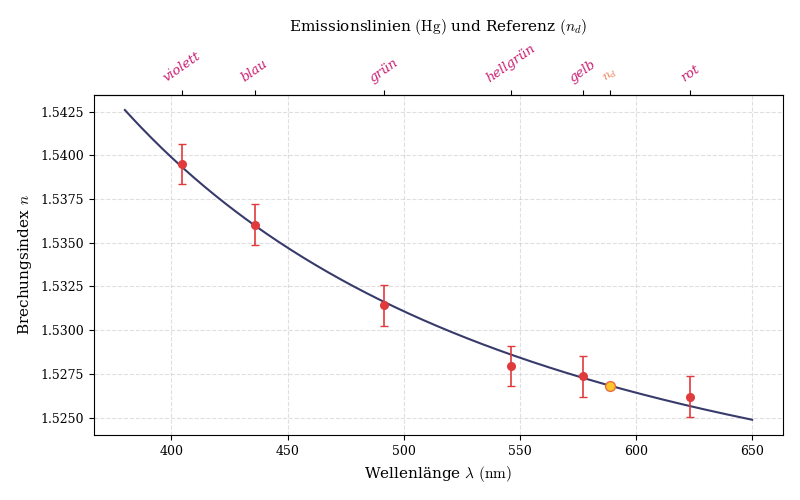
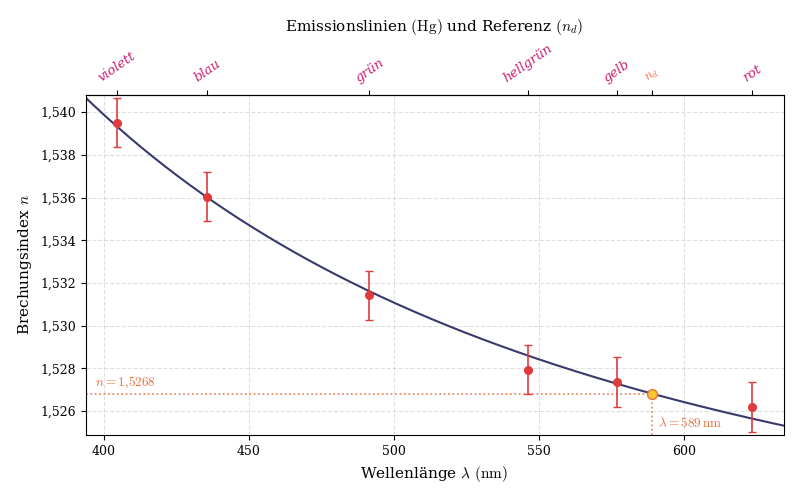
support for multiple datasets

diff --git a/O20/ablenkung_analyse.py b/O20/ablenkung_analyse.py
@@ -2,6 +2,9 @@ import pandas as pd
 import matplotlib.pyplot as plt
 import numpy as np
 from scipy.optimize import curve_fit
+from matplotlib.ticker import FuncFormatter
+import os
+
 
 # spezi palette
 YELLOW = "#fcc72d"
@@ -11,6 +14,21 @@ MAGENTA = "#cb1f73"
 BLUE = "#383a6b"
 
 DELTA_ANGLE = 0.1 # deg
+
+lookup_table = {
+    "ablenkung_prisma_1": {
+        "phi_deg": 59.15, # (260.2 - 141.9)/2
+        "lambdas_nm": np.array([404.7, 435.8, 491.6, 546.1, 577.0, 623.4]),
+        "top_ticks": [404.7, 435.8, 491.6, 546.1, 577.0, 589.0, 623.4],
+        "top_labels": ["violett", "blau", "grün", "hellgrün", "gelb", r"$n_d$", "rot"],
+    },
+    "ablenkung_prisma_2": {
+        "phi_deg": 60.55, # (261.7 - 140.6)/2
+        "lambdas_nm": None,
+        "top_ticks": [404.75, 435.8, 493.8, 546.1, 578.05, 589.0, 612.0, 671.0],
+        "top_labels": ["violett", "blau", "grün", "hellgrün", "gelb", r"$n_d$", "rot", "rot"],
+    },
+}
 
 # LaTeX config for matplotlib
 plt.rcParams.update(
@@ -30,112 +48,177 @@ def sellmeier(lambda_um, B, C):
     # lambda is expected to be in micrometers to prevent overflow
     return np.sqrt(1.0 + (B * lambda_um**2) / (lambda_um**2 - C))
 
-df = pd.read_csv("data/ablenkung_prisma_1.csv",sep=";",decimal=",")
+for filename, config in lookup_table.items():
+    file_path = f"data/{filename}.csv"
 
-df = df[["Farbe", "GelbL", "GelbR", "Rot", "Violett"]]
+    if not os.path.exists(file_path):
+        print(f"Überspringe {filename} - Datei nicht gefunden!")
+        continue
 
-lambdas_nm = np.array([404.7, 435.8, 491.6, 546.1, 577.0, 623.4])
-lambdas_um = lambdas_nm / 1000.0 # convert to micrometer
+    df = pd.read_csv(file_path, sep=";", decimal=",")  # read german csv notation
+    df = df[["Farbe", "GelbL", "GelbR", "Rot", "Violett"]]
 
-PHI_DEG = 59.15 # (260.2 - 141.9)/2
-phi_rad = np.radians(PHI_DEG)
-
-delta_deg = np.abs(df["GelbR"] - df["GelbL"]) / 2.0 # minimum deflection
-delta_rad = np.radians(delta_deg)
-
-# refractive index using snell's law
-n_measured = np.sin((delta_rad + phi_rad) / 2.0) / np.sin(phi_rad / 2.0)
-
-delta_delta_rad = np.radians(DELTA_ANGLE)
-
-dn_ddelta = np.cos((delta_rad + phi_rad) / 2.0) / (2.0 * np.sin(phi_rad / 2.0))
-n_err = np.abs(dn_ddelta) * delta_delta_rad
-
-popt, pcov = curve_fit(sellmeier, lambdas_um, n_measured, p0=[1.1, 0.01])
-B_fit, C_fit = popt
-
-n_NaD = sellmeier(0.589, B_fit, C_fit)
-
-fig, ax = plt.subplots(figsize=(8, 5))
-
-x_line_um = np.linspace(0.38, 0.65, 300)
-x_line_nm = x_line_um * 1000.0
-y_line_fit = sellmeier(x_line_um, B_fit, C_fit)
-
-ax.plot(
-    x_line_nm,
-    y_line_fit,
-    color=BLUE,
-    linestyle="-",
-    linewidth=1.5,
-    label=f"Sellmeier-Fit ($B={B_fit:.4f}, C={C_fit:.5f}\\,\\mu\\mathrm{{m}}^2$)",
-    zorder=2,
-)
-
-ax.errorbar(
-    lambdas_nm,
-    n_measured,
-    yerr=n_err,
-    fmt="o",
-    color=RED,
-    ecolor=RED,
-    elinewidth=1.2,
-    capsize=3,
-    markersize=5.5,
-    label="Messdaten Prisma 1 mit $\\Delta n$",
-    zorder=3,
-)
-
-ax.scatter(
-    [589],
-    [n_NaD],
-    color=YELLOW,
-    edgecolors=ORANGE,
-    s=50,
-    zorder=4,
-)
-
-top_ticks = [404.7, 435.8, 491.6, 546.1, 577.0, 589.0, 623.4]
-top_labels = [
-    "violett",
-    "blau",
-    "grün",
-    "hellgrün",
-    "gelb",
-    r"$n_d$",
-    "rot",
-]
-
-ax_top = ax.secondary_xaxis("top")
-ax_top.set_xticks(top_ticks)
-
-ax_top.set_xticklabels(top_labels, fontsize=9.5, rotation=35)
-ax_top.set_xlabel(
-    r"Emissionslinien $(\mathrm{Hg})$ und Referenz $(n_d)$", labelpad=8
-)
-
-for i, tick_label in enumerate(ax_top.get_xticklabels()):
-    if i == 5:
-        tick_label.set_color(ORANGE)
-        tick_label.set_fontweight("bold")
+    if config["lambdas_nm"] is not None:
+        lambdas_nm = config["lambdas_nm"]
     else:
-        tick_label.set_color(MAGENTA)
-        tick_label.set_fontstyle("italic")
+        lambdas_nm = df["Farbe"].astype(float).values
 
-ax.set_xlabel(r"Wellenlänge $\lambda$ $(\mathrm{nm})$")
-ax.set_ylabel(r"Brechungsindex $n$")
+    lambdas_um = lambdas_nm / 1000.0 # convert to micrometer
 
-ax.grid(True, which="both", linestyle="--", alpha=0.4)
+    PHI_DEG = config["phi_deg"]
+    phi_rad = np.radians(PHI_DEG)
 
-plt.tight_layout()
-plt.savefig("data/out/ablenkung_prisma_1.pdf")
-plt.savefig("data/out/ablenkung_prisma_1.png")
-plt.show()
+    delta_deg = np.abs(df["GelbR"] - df["GelbL"]) / 2.0 # minimum deflection
+    delta_rad = np.radians(delta_deg)
 
-print("WERTE PRISMA 1")
-print(f"fit_B = {B_fit:.5f}")
-print(f"fit_C = {C_fit:.7f} um^2")
-print(f"589 nm: n = {n_NaD:.4f}\n")
-print("Wertetabelle:")
-for f, l, n, dn in zip(df["Farbe"], lambdas_nm, n_measured, n_err):
-    print(f"  {f:10s} ({l:.1f} nm): n = {n:.4f} +- {dn:.4f}")
+    # refractive index using snell's law
+    n_measured = np.sin((delta_rad + phi_rad) / 2.0) / np.sin(phi_rad / 2.0)
+
+    delta_delta_rad = np.radians(DELTA_ANGLE)
+
+    dn_ddelta = np.cos((delta_rad + phi_rad) / 2.0) / (2.0 * np.sin(phi_rad / 2.0))
+    n_err = np.abs(dn_ddelta) * delta_delta_rad
+
+    popt, pcov = curve_fit(sellmeier, lambdas_um, n_measured, p0=[1.1, 0.01])
+    B_fit, C_fit = popt
+
+    n_NaD = sellmeier(0.589, B_fit, C_fit)
+
+    fig, ax = plt.subplots(figsize=(8, 5))
+
+    x_min_um = (lambdas_nm.min() - 15) / 1000.0
+    x_max_um = (lambdas_nm.max() + 15) / 1000.0
+    x_line_um = np.linspace(x_min_um, x_max_um, 300)
+    x_line_nm = x_line_um * 1000.0
+    y_line_fit = sellmeier(x_line_um, B_fit, C_fit)
+
+    ax.plot(
+        x_line_nm,
+        y_line_fit,
+        color=BLUE,
+        linestyle="-",
+        linewidth=1.5,
+        label=f"Sellmeier-Fit ($B={B_fit:.4f}, C={C_fit:.5f}\\,\\mu\\mathrm{{m}}^2$)",
+        zorder=2,
+    )
+
+    ax.errorbar(
+        lambdas_nm,
+        n_measured,
+        yerr=n_err,
+        fmt="o",
+        color=RED,
+        ecolor=RED,
+        elinewidth=1.2,
+        capsize=3,
+        markersize=5.5,
+        label="Messdaten Prisma 1 mit $\\Delta n$",
+        zorder=3,
+    )
+
+    x_pad = (lambdas_nm.max() - lambdas_nm.min()) * 0.05
+    y_pad = (n_measured.max() - n_measured.min()) * 0.10
+
+    ax.set_xlim(lambdas_nm.min() - x_pad, lambdas_nm.max() + x_pad)
+    ax.set_ylim(n_measured.min() - y_pad, n_measured.max() + y_pad)
+
+    left_limit, _ = ax.get_xlim()
+    lower_limit, _ = ax.get_ylim()
+
+    ax.vlines(
+        589,
+        ymin=lower_limit,
+        ymax=n_NaD,
+        color=ORANGE,
+        linestyle=":",
+        linewidth=1.2,
+        alpha=0.9,
+    )
+
+    ax.hlines(
+        n_NaD,
+        xmin=left_limit,
+        xmax=589,
+        color=ORANGE,
+        linestyle=":",
+        linewidth=1.2,
+        alpha=0.9,
+    )
+
+    n_NaD_str = f"{n_NaD:.4f}".replace(".", "{,}")
+    ax.scatter(
+        [589],
+        [n_NaD],
+        color=YELLOW,
+        edgecolors=ORANGE,
+        s=50,
+        zorder=4,
+        label=f"Na-D-Linie ($589\\,\\mathrm{{nm}} \\rightarrow n={n_NaD_str}$)",
+    )
+
+    y_span = n_measured.max() - n_measured.min()
+    ax.text(
+        591,
+        lower_limit + y_span * 0.02,
+        r"$\lambda = 589\,\mathrm{nm}$",
+        color=ORANGE,
+        fontsize=9.5,
+        ha="left",
+        va="bottom",
+        zorder=5,
+    )
+
+    x_span = lambdas_nm.max() - lambdas_nm.min()
+    ax.text(
+        left_limit + x_span * 0.015,
+        n_NaD + y_span * 0.01,
+        f"$n = {n_NaD_str}$",
+        color=ORANGE,
+        fontsize=9.5,
+        ha="left",
+        va="bottom",
+        fontweight="bold",
+        zorder=5,
+    )
+
+    ax.yaxis.set_major_formatter(
+        FuncFormatter(lambda y_val, _: f"{y_val:.3f}".replace(".", ","))
+    )
+
+    # top axis
+    ax_top = ax.secondary_xaxis("top")
+    ax_top.set_xticks(config["top_ticks"])
+    ax_top.set_xticklabels(config["top_labels"], fontsize=9.5, rotation=35)
+    ax_top.set_xlabel(
+        r"Emissionslinien $(\mathrm{Hg})$ und Referenz $(n_d)$", labelpad=8
+    )
+
+    for i, tick_label in enumerate(ax_top.get_xticklabels()):
+        if i == 5:
+            tick_label.set_color(ORANGE)
+            tick_label.set_fontweight("bold")
+        else:
+            tick_label.set_color(MAGENTA)
+            tick_label.set_fontstyle("italic")
+
+    ax.set_xlabel(r"Wellenlänge $\lambda$ $(\mathrm{nm})$")
+    ax.set_ylabel(r"Brechungsindex $n$")
+
+    ax.grid(True, which="both", linestyle="--", alpha=0.4)
+
+    plt.tight_layout()
+    plt.savefig(f"data/out/{filename}.pdf")
+    plt.savefig(f"data/out/{filename}.png")
+    plt.show()
+
+    print(f"WERTE {filename.upper()}")
+    print(f"fit_B = {B_fit:.5f}")
+    print(f"fit_C = {C_fit:.7f} um^2")
+    print(f"589 nm: n = {n_NaD:.4f}\n")
+    print("Wertetabelle:")
+    for f_raw, l, n_val, dn_val in zip(
+            df["Farbe"], lambdas_nm, n_measured, n_err
+    ):
+        print(
+            f"  {str(f_raw):10s} ({l:5.1f} nm): n = {n_val:.4f} +- {dn_val:.4f}"
+        )